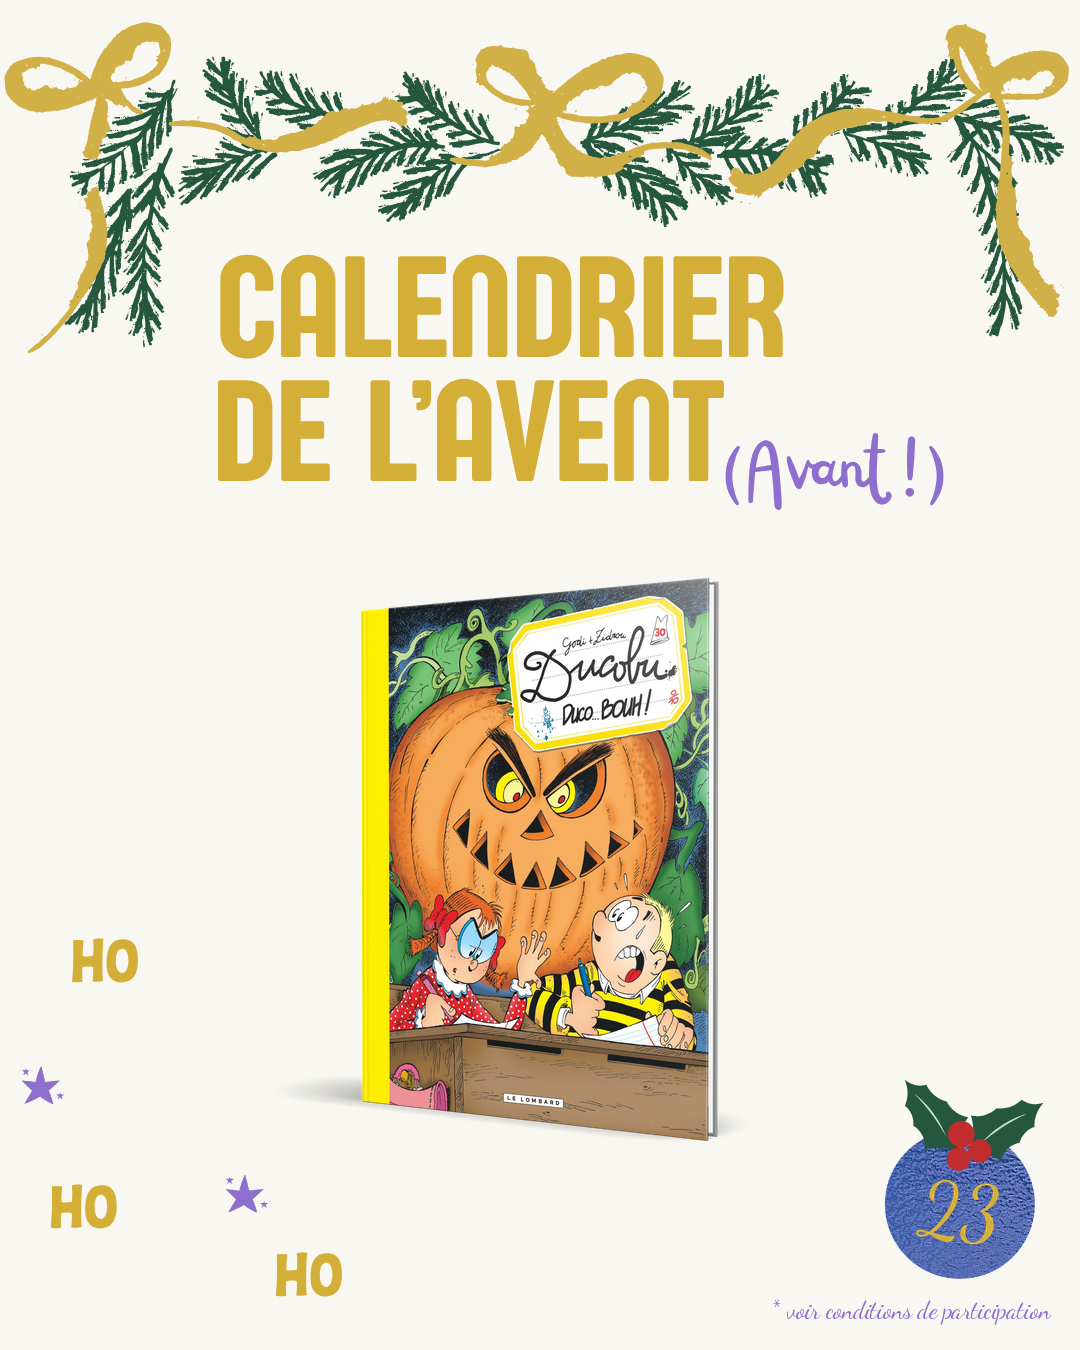
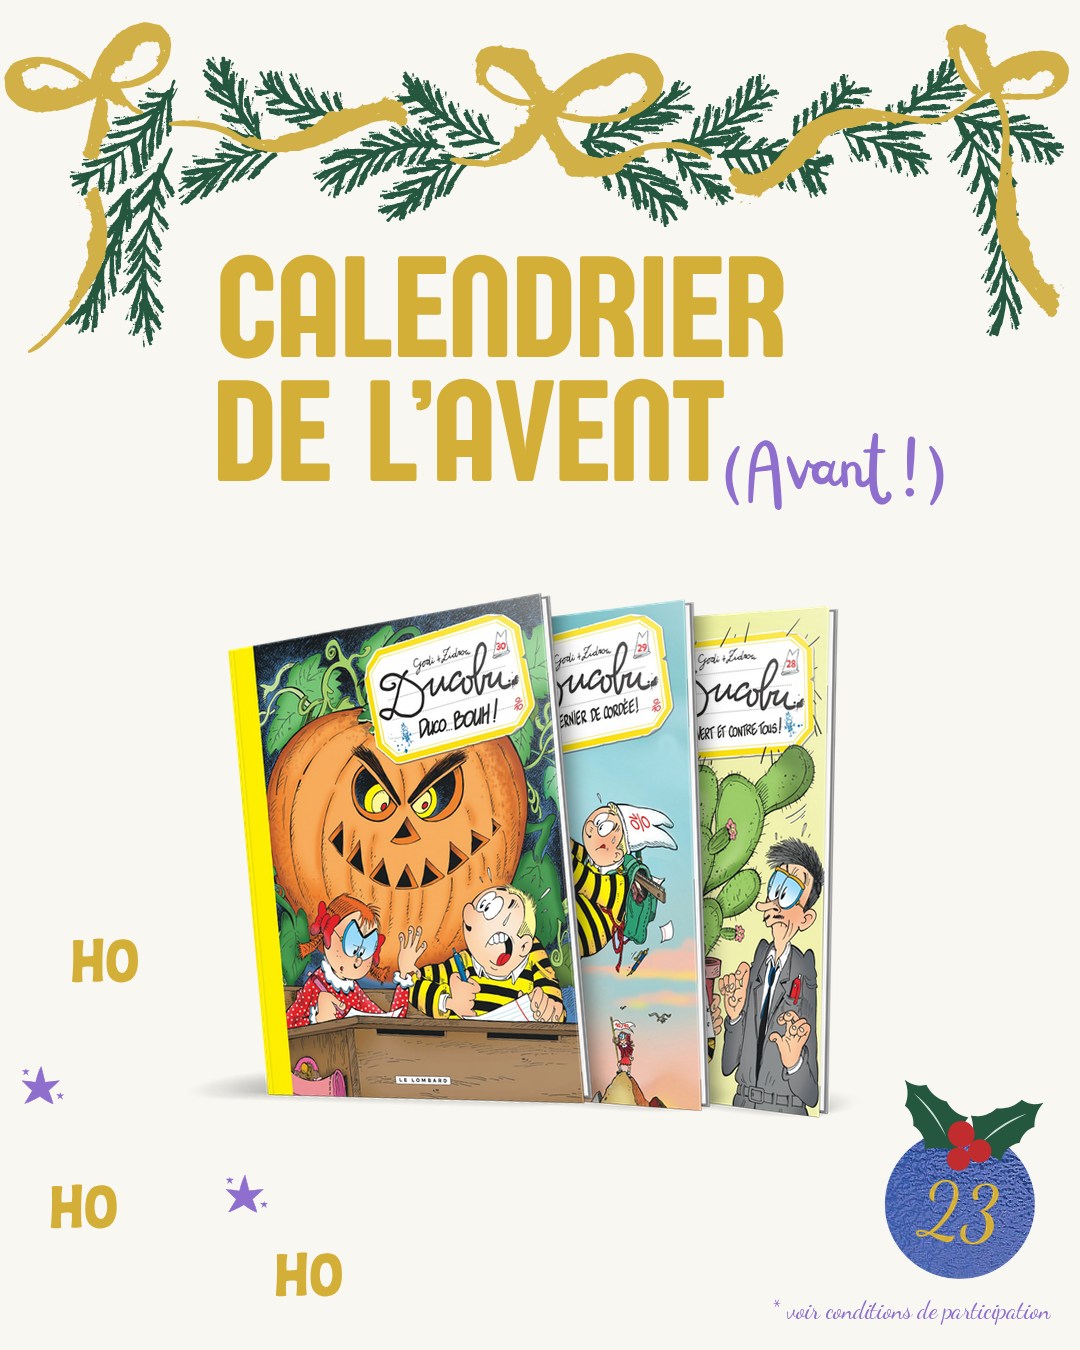
Calendrier Avant : jour 23, Ducobu 30, 29, 28 en éventail
Claude-Session: https://claude.ai/code/session_01QaZk7QZvzTVY1x8op41wve

Changed region(s): [[0.2139, 0.4044, 0.7944, 0.84]]

diff --git a/calendrier-avent-2026/planning.py b/calendrier-avent-2026/planning.py
@@ -32,7 +32,7 @@ PLANNING = [
     {'serie': ['9782808216760', '9782808214438', '9782808212472']},                  # 20 Alpha 21, 20, 19
     {'serie': ['9782808216937', '9782808210966', '9782808204880']},                  # 21 Les Enfants de la Résistance 10, 9, 8
     'jour22',                             # 22 Aylin 1-2 | Elsbeth 1-2 (voir COMPOSITIONS)
-    ['9782808218740'],                    # 23 Ducobu 30 – Duco... Bouh !
+    {'serie': ['9782808218740', '9782808214940', '9782808213080']},                  # 23 Ducobu 30, 29, 28
     ['9782808211260'],                    # 24 Lonesome Dove partie 1
 ]
 THEMES = ['rouge', 'jaune', 'bleu']
